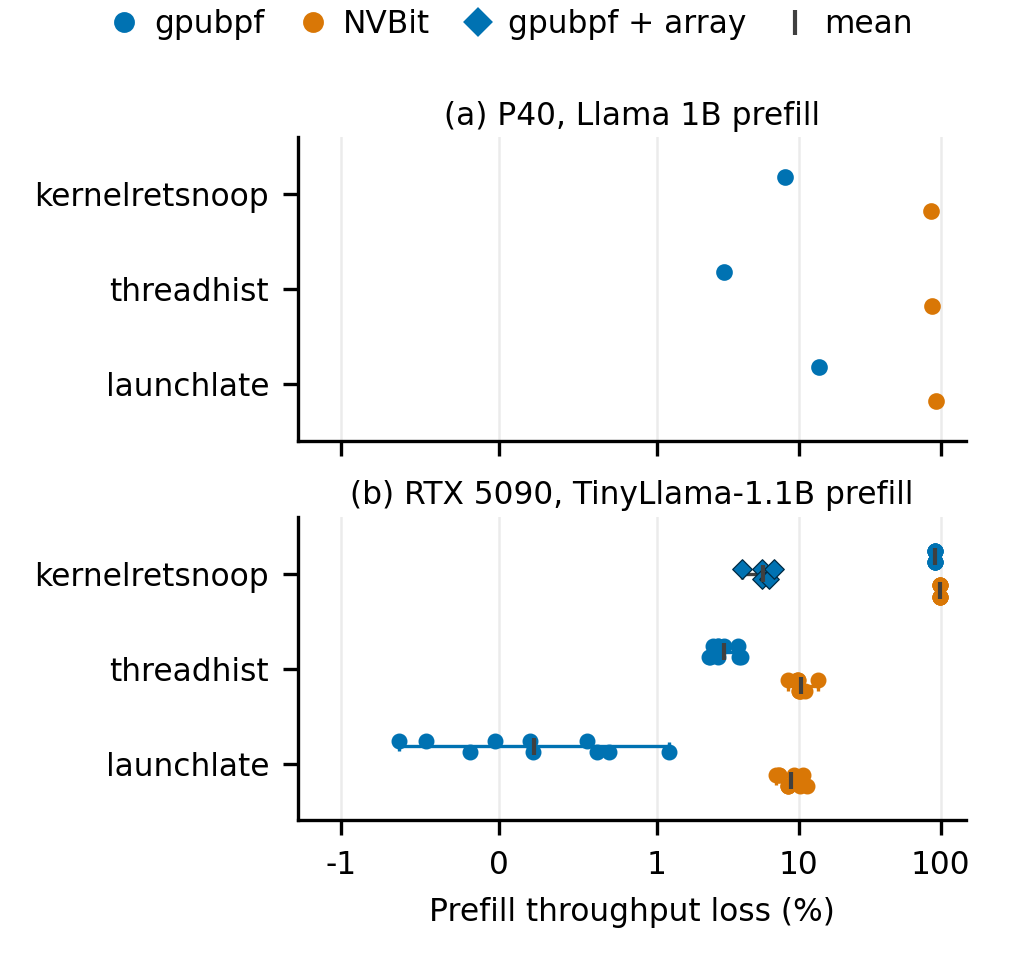
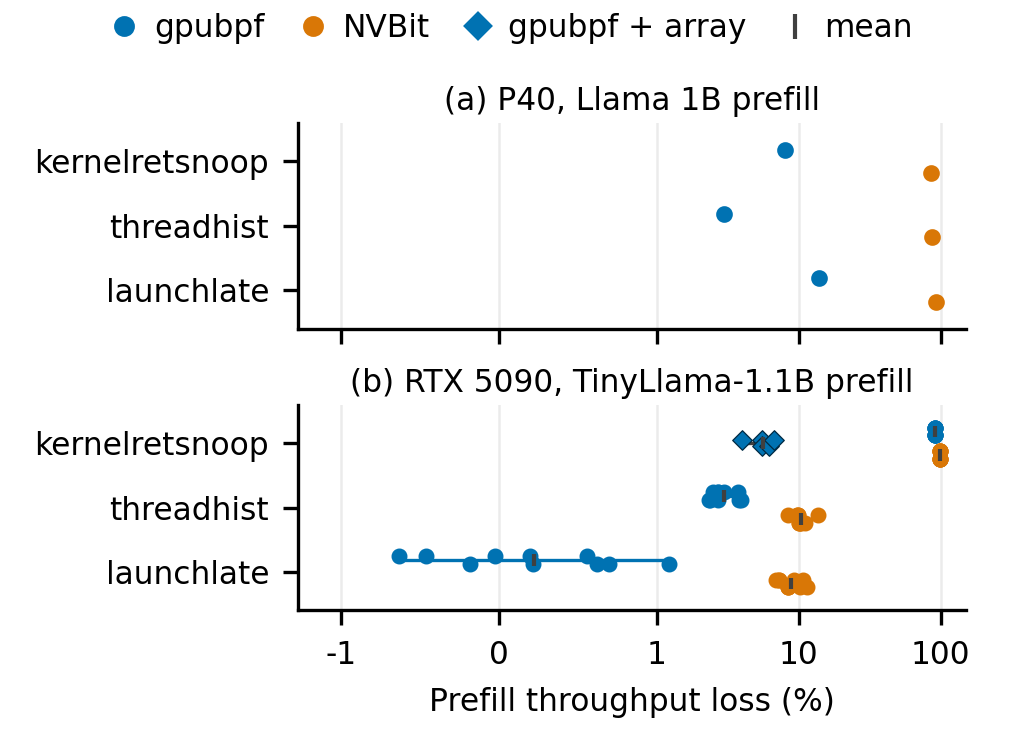
figures: reduce observability plot whitespace without shrinking labels

diff --git a/tex-revision/img/results-raw/revision/plot_obs_with_array.py b/tex-revision/img/results-raw/revision/plot_obs_with_array.py
@@ -209,7 +209,7 @@ def _draw(data: dict, paths: list[Path]) -> None:
     rows = {tool: index for index, tool in enumerate(reversed(TOOLS))}
 
     with plt.rc_context(STYLE):
-        figure, axes = plt.subplots(2, 1, figsize=(3.4, 3.2), sharex=True)
+        figure, axes = plt.subplots(2, 1, figsize=(3.4, 2.5), sharex=True)
         for axis in axes:
             axis.set_xscale("symlog", linthresh=1.0)
             axis.set_xlim(-2, 150)

diff --git a/tex-revision/img/results-raw/revision/obs-with-array.caption.md b/tex-revision/img/results-raw/revision/obs-with-array.caption.md
@@ -33,6 +33,10 @@ concurrent-kernel streaming collector.
 
 ## Reproduction
 
+The final canvas is 3.4 by 2.5 inches with unchanged 7.5 pt labels. This
+compact rendering removes vertical whitespace from the earlier 3.2-inch-high
+version without changing plotted measurements, axis scaling or font size.
+
 Run from the gpu_ext root. The script refuses to overwrite existing
 outputs, so write to a fresh directory instead of deleting anything:
 
